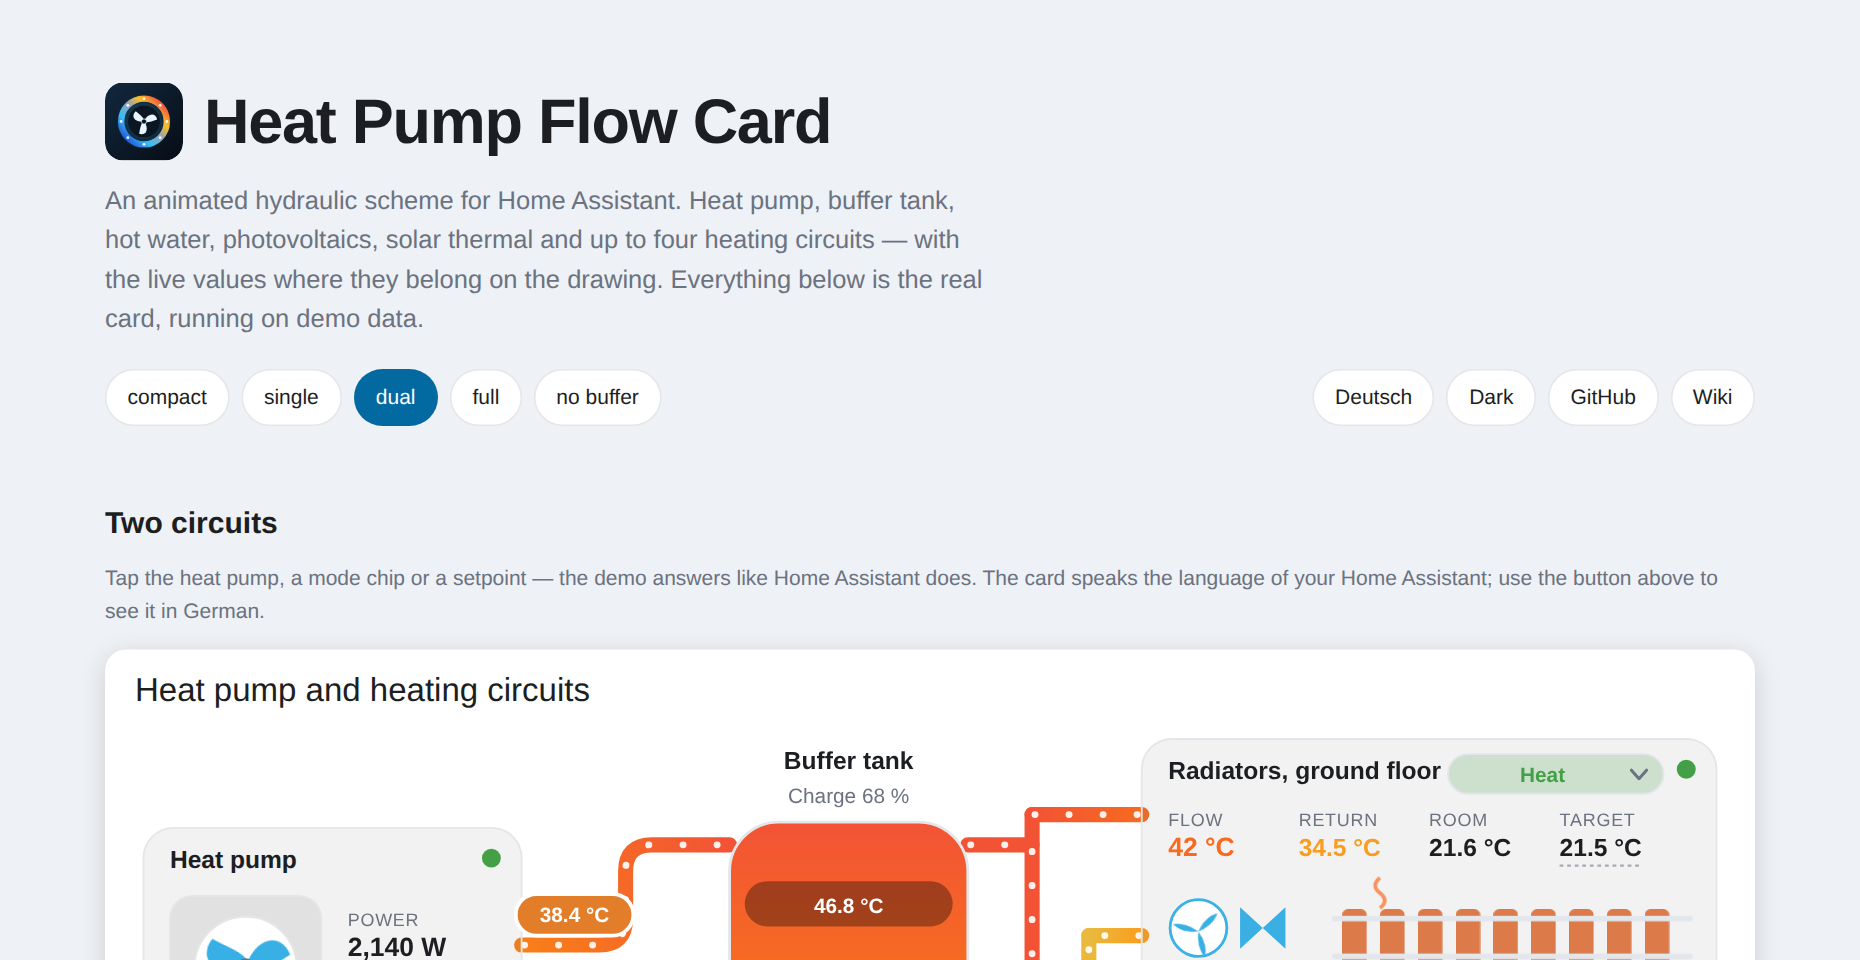
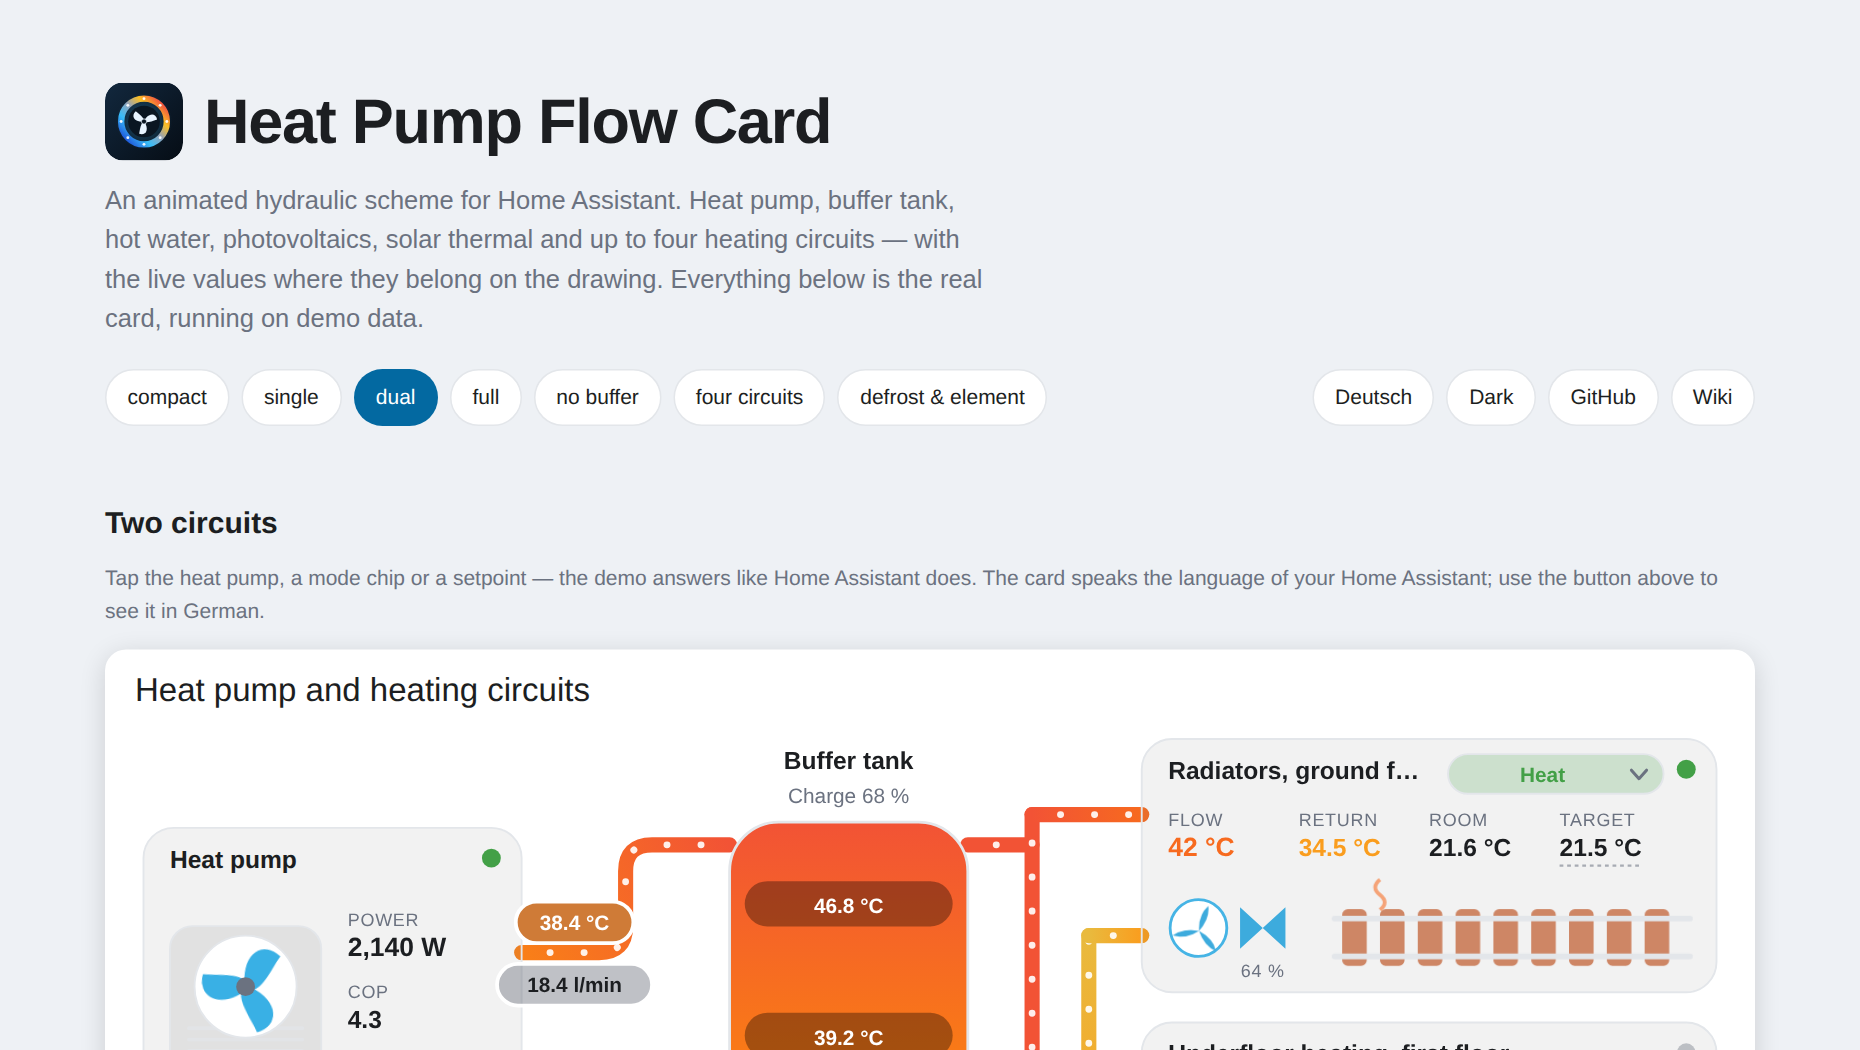
feat: a dashboard example, the new views in the demo, and the HACS checklist
The live demo now shows the two views that came with the last changes:
four circuits each with their own state, and a defrost cycle with the
second heat generator and the element in the tank running.

`09-dashboard-idm.yaml` is a whole dashboard view rather than a single
card - the flow card across the top, then a COP gauge, cycle and defrost
counters, a 24 hour graph of flow, return and outside, hot water with its
thermostat and boost buttons, both heating circuits, photovoltaics, solar
thermal and the second heat generator. Everything but the first card is
built into Home Assistant.

The documentation check understands dashboards now: a file is either one
card or a view holding some, and every card in it is validated.

Publishing-to-HACS in the wiki lists what the default store checks, where
this repository stands on each point, and how to submit it.

Claude-Session: https://claude.ai/code/session_01VfFeMbjBhHh6Ar2PD18c8e

diff --git a/docs/site/index.html b/docs/site/index.html
@@ -116,6 +116,8 @@
         <button type="button" data-layout="dual" aria-pressed="true">dual</button>
         <button type="button" data-layout="full">full</button>
         <button type="button" data-layout="advanced">no buffer</button>
+        <button type="button" data-layout="circuits">four circuits</button>
+        <button type="button" data-layout="extras">defrost &amp; element</button>
         <span class="spacer"></span>
         <button type="button" id="language" title="The card follows the Home Assistant language">
           Deutsch
@@ -169,6 +171,8 @@
         dual: "Two circuits",
         full: "Complete plant",
         advanced: "Without a buffer tank",
+        circuits: "Four circuits, each with its own state",
+        extras: "Defrosting, second heat generator, element in the tank",
       };
       const stage = document.getElementById("stage");
       const title = document.getElementById("demo-title");

diff --git a/docs/wiki/Publishing-to-HACS.md b/docs/wiki/Publishing-to-HACS.md
@@ -1,0 +1,60 @@
+# Publishing to HACS
+
+The card is installable through HACS as a **custom repository** today, and it
+meets every requirement for the HACS default store. This page is the checklist
+and the submission procedure.
+
+## Installing it as a custom repository
+
+Nothing has to be published for this — see [Installation](Installation).
+
+## What the default store requires
+
+| Requirement | Where it stands |
+| --- | --- |
+| Public GitHub repository, not archived | ✅ |
+| Description on the repository | ✅ |
+| Topics on the repository | ✅ `home-assistant`, `hacs`, `lovelace`, `lovelace-card`, `custom-card`, `dashboard`, `heat-pump`, `heating`, `cooling` |
+| Issues enabled | ✅ |
+| A license GitHub recognises | ✅ MIT |
+| `hacs.json` with at least a `name` | ✅ also `filename`, `render_readme`, `homeassistant` |
+| A `.js` file named after the repository, in the root or in `dist/` | ✅ `dist/heatpump-flow-card.js` |
+| Images in the README | ✅ the gallery |
+| At least one GitHub release, created after the checks pass | ✅ every release attaches `heatpump-flow-card.js` |
+| The HACS action passes | ✅ runs on every push and pull request in `validate.yml` |
+
+## Cutting a release
+
+1. Bump `CARD_VERSION` in `dist/heatpump-flow-card.js` and `version` in
+   `package.json`, and add a CHANGELOG section for that version.
+2. Merge to `main`.
+3. **Actions → Release → Run workflow**, or push a tag `vX.Y.Z`.
+
+The workflow refuses to publish unless the card, `package.json`, the tag and the
+CHANGELOG all agree, then creates the tag and publishes the release with
+`heatpump-flow-card.js` attached. HACS hands users that asset.
+
+## Submitting it to the default store
+
+1. Make sure the latest release is green — `validate.yml` must have passed on
+   the commit the release points at.
+2. Fork [`hacs/default`](https://github.com/hacs/default).
+3. Add `Xerolux/heatpump-flow-card` to the `plugin` file, **in alphabetical
+   order**, on a new branch.
+4. Open a pull request from that branch. It has to be editable by maintainers,
+   and you have to be the repository owner — which you are.
+5. The HACS bot runs its checks (repository, releases, images, hacs.json,
+   archived, owner). Everything on the list above is what it looks at.
+
+Once merged, the card shows up in HACS for everyone without adding a custom
+repository.
+
+## After publishing
+
+* Keep releasing through the workflow — HACS shows users the last five
+  releases.
+* `hacs.json` pins `homeassistant: 2024.8.0`; raise it only when the card
+  actually starts needing something newer, because HACS hides the card from
+  anyone on an older version.
+* The repository description and the README are what people read in the HACS
+  store, so they are worth keeping current.

diff --git a/docs/wiki/Examples.md b/docs/wiki/Examples.md
@@ -14,6 +14,7 @@ and can be pasted into a manual card editor as they are.
 | `06-idm-heatpump.yaml` | Wired up for the IDM heat pump integration |
 | `07-idm-solaredge-paradigma.yaml` | A whole plant: IDM heat pump, SolarEdge PV, Paradigma solar thermal |
 | `08-immersion-heater.yaml` | An AC-Thor element in the buffer tank, plus the bivalent stage |
+| `09-dashboard-idm.yaml` | A whole dashboard view around that plant — the card plus built-in cards |
 
 ## Every circuit keeps its own state
 
@@ -109,6 +110,17 @@ engages.
 
 For photovoltaics with several inverters, sum them in a template sensor and
 point `pv.power` at that — the card draws one PV source.
+
+## A whole dashboard, not just a card
+
+`09-dashboard-idm.yaml` is a complete view: the flow card across the top, then
+the heat pump with its COP gauge, cycle counters and a 24 hour graph, hot water
+with its thermostat and boost buttons, both heating circuits, photovoltaics,
+solar thermal and the second heat generator.
+
+Paste it under `views:` in **dashboard → pencil → three dots → Raw
+configuration editor**. Everything except the first card is a built-in Home
+Assistant card, so nothing else has to be installed.
 
 ## An electric element in the tank
 

diff --git a/CHANGELOG.md b/CHANGELOG.md
@@ -2,6 +2,15 @@
 
 ## 1.6.0
 
+* The live demo gained the two new views: four circuits each with their own
+  state, and a defrost cycle with the second heat generator and the element in
+  the tank running.
+* A whole dashboard as an example, not just a card: `09-dashboard-idm.yaml` is
+  a complete view with the flow card, a COP gauge, cycle counters, a 24 hour
+  graph, hot water, both circuits, photovoltaics and solar thermal.
+* A wiki page that lists what the HACS default store requires and how to submit
+  the card to it.
+
 * **Nothing overlaps any more.** A new `check:overlaps` step renders every demo
   layout in a browser and fails the build when two labels, or a label and a
   pill, cover each other. It found three: a long circuit name running under its

diff --git a/README.de.md b/README.de.md
@@ -373,7 +373,8 @@ Schema Vorlauf rot / Rücklauf blau.
   Karte im Browser, ganz ohne Home Assistant
 * **[Wiki](https://github.com/Xerolux/heatpump-flow-card/wiki)** – Installation,
   alle Optionen, Bedienung, Problemlösung, Entwicklung
-* **[Beispiele](examples)** – sechs fertige Konfigurationen
+* **[Beispiele](examples)** – neun fertige Konfigurationen, darunter ein
+  komplettes Dashboard
 
 ## Entwicklung
 

diff --git a/README.md b/README.md
@@ -366,7 +366,8 @@ red-flow / blue-return scheme.
   in your browser, no Home Assistant needed
 * **[Wiki](https://github.com/Xerolux/heatpump-flow-card/wiki)** — installation,
   every option, controls, troubleshooting, development
-* **[Examples](examples)** — six ready-made configurations
+* **[Examples](examples)** — nine ready-made configurations, including a whole
+  dashboard view
 
 ## Development
 

diff --git a/docs/wiki/Home.md b/docs/wiki/Home.md
@@ -27,6 +27,7 @@ it.
 | [Colours and Themes](Colours-and-Themes) | The temperature ramp, theme variables |
 | [Troubleshooting](Troubleshooting) | Card not found, empty values, nothing moves |
 | [Development](Development) | Preview, tests, screenshots, releases |
+| [Publishing to HACS](Publishing-to-HACS) | The store checklist and how to submit |
 
 ## In one minute
 

diff --git a/docs/wiki/_Sidebar.md b/docs/wiki/_Sidebar.md
@@ -9,6 +9,7 @@
 * [Colours and Themes](Colours-and-Themes)
 * [Troubleshooting](Troubleshooting)
 * [Development](Development)
+* [Publishing to HACS](Publishing-to-HACS)
 
 ### Deutsch
 
